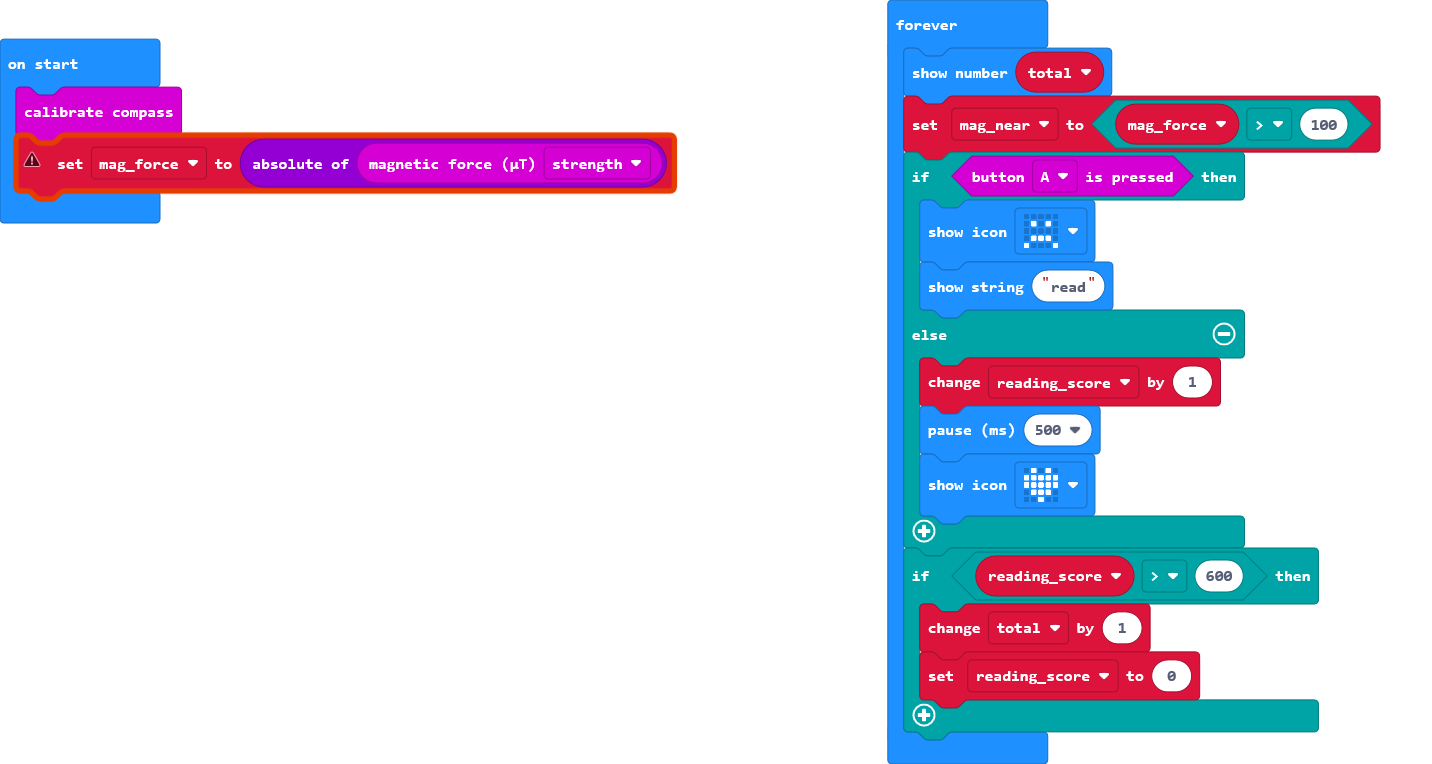
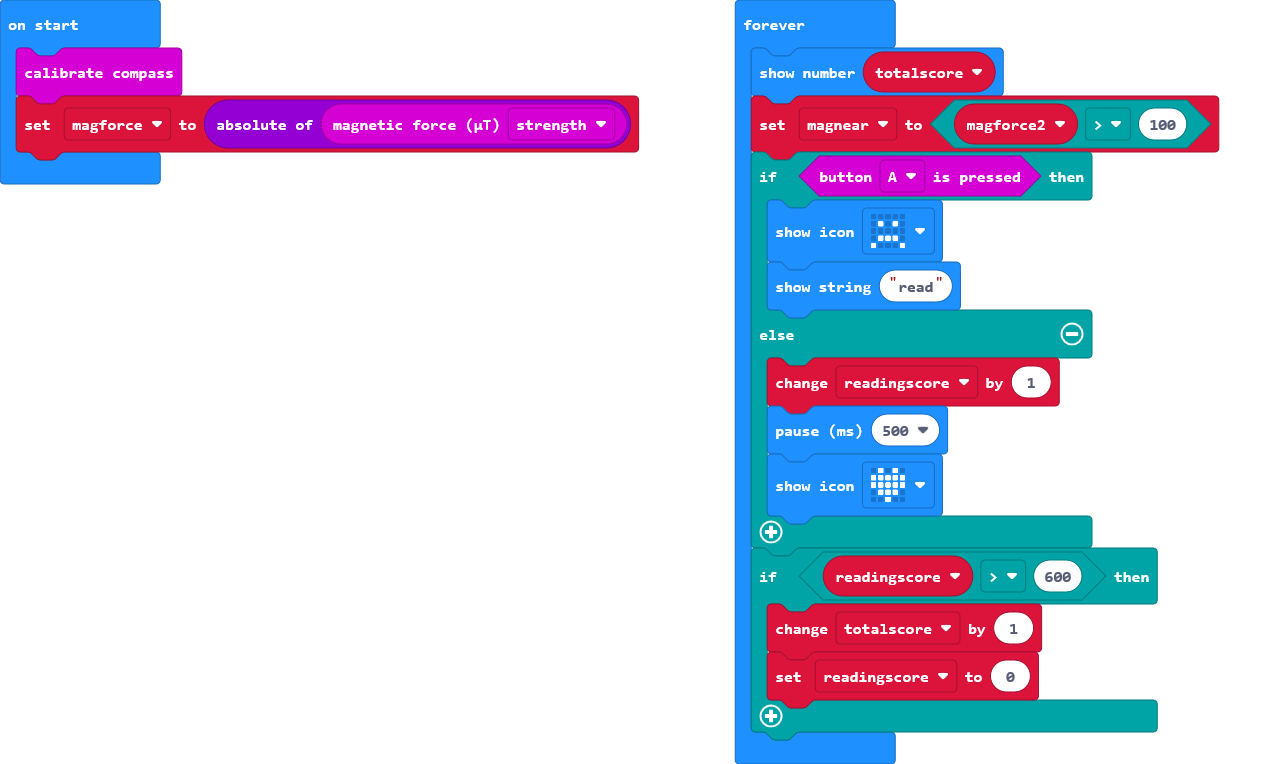
Update pxt.json, main.blocks, main.ts

diff --git a/main.ts b/main.ts
@@ -1,11 +1,12 @@
 let readingscore = 0
 let magnear = false
-let Total = 0
+let totalscore = 0
 input.calibrateCompass()
 let magforce = Math.abs(input.magneticForce(Dimension.Strength))
 basic.forever(function () {
-    basic.showNumber(total)
-    magnear = magforce > 100
+    let magforce2 = 0
+    basic.showNumber(totalscore)
+    magnear = magforce2 > 100
     if (input.buttonIsPressed(Button.A)) {
         basic.showIcon(IconNames.Sad)
         basic.showString("read")
@@ -15,7 +16,7 @@ basic.forever(function () {
         basic.showIcon(IconNames.Heart)
     }
     if (readingscore > 600) {
-        Total += 1
+        totalscore += 1
         readingscore = 0
     }
 })
